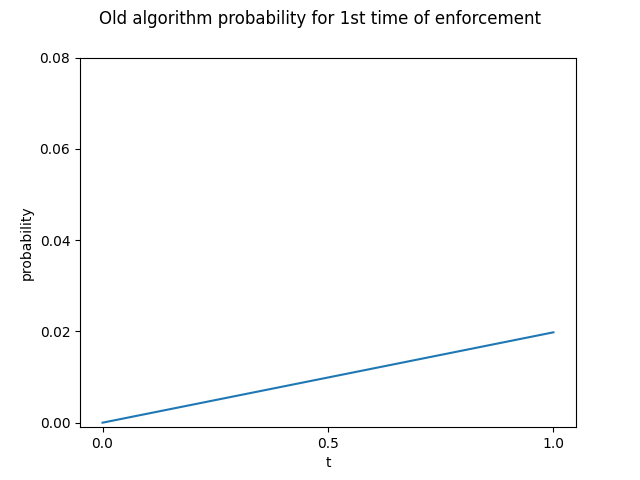
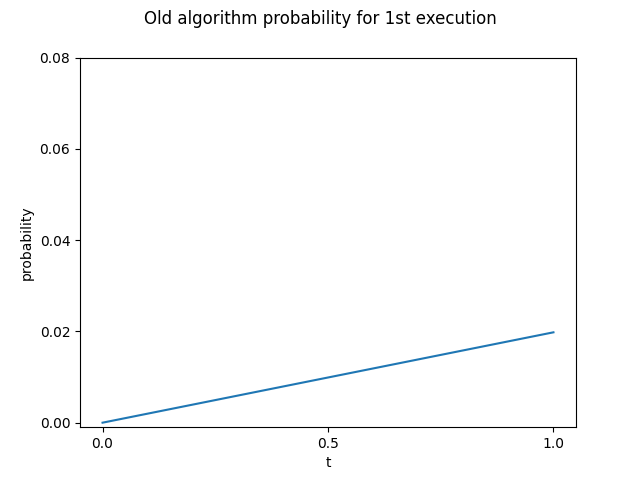
update code

Changed region(s): [[0.1562, 0.0, 0.8438, 0.0625]]

diff --git a/src/before_kairyou.py b/src/before_kairyou.py
@@ -74,7 +74,7 @@ class Bayes():
         #施行１回目のグラフ
         plt.figure()
         plt.plot(x,first)
-        plt.suptitle("Old algorithm probability for 1st time of enforcement")
+        plt.suptitle("Old algorithm probability for 1st execution")
         plt.xlabel("t")
         plt.ylabel("probability")
         plt.xticks([0,0.5,1])
@@ -84,7 +84,7 @@ class Bayes():
         #施行２回目のグラフ
         plt.figure()
         plt.plot(x,second)
-        plt.suptitle("Old algorithm probability for 2st time of enforcement")
+        plt.suptitle("Old algorithm probability for 2st execution")
         plt.xlabel("t")
         plt.ylabel("probability")
         plt.xticks([0,0.5,1])
@@ -94,7 +94,7 @@ class Bayes():
         #施行３回目のグラフ
         plt.figure()
         plt.plot(x,third)
-        plt.suptitle("Old algorithm probability for 3st time of enforcement")
+        plt.suptitle("Old algorithm probability for 3st execution")
         plt.xlabel("t")
         plt.ylabel("probability")
         plt.xticks([0,0.5,1])
@@ -104,7 +104,7 @@ class Bayes():
         #施行４回目のグラフ
         plt.figure()
         plt.plot(x,forth)
-        plt.suptitle("Old algorithm probability for 4st time of enforcement")
+        plt.suptitle("Old algorithm probability for 4st execution")
         plt.xlabel("t")
         plt.ylabel("probability")
         plt.xticks([0,0.5,1])
@@ -114,7 +114,7 @@ class Bayes():
         #施行５回目のグラフ
         plt.figure()
         plt.plot(x,fifth)
-        plt.suptitle("Old algorithm probability for 5st time of enforcement")
+        plt.suptitle("Old algorithm probability for 5st execution")
         plt.xlabel("t")
         plt.ylabel("probability")
         plt.xticks([0,0.5,1])
